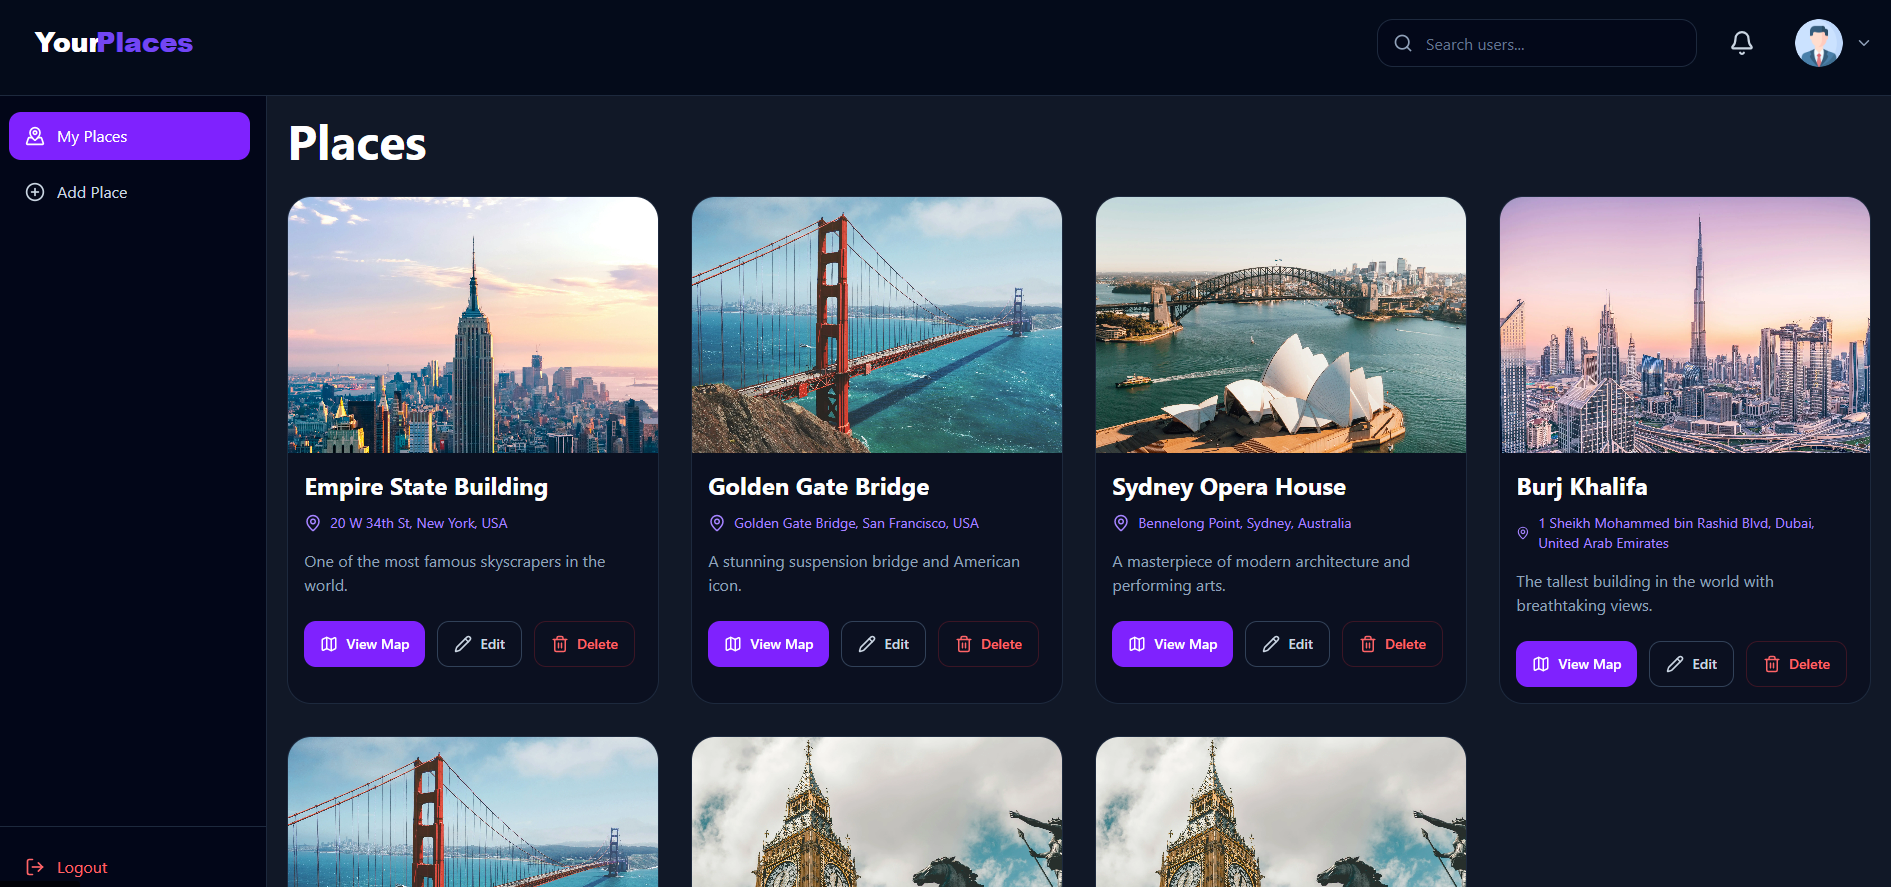
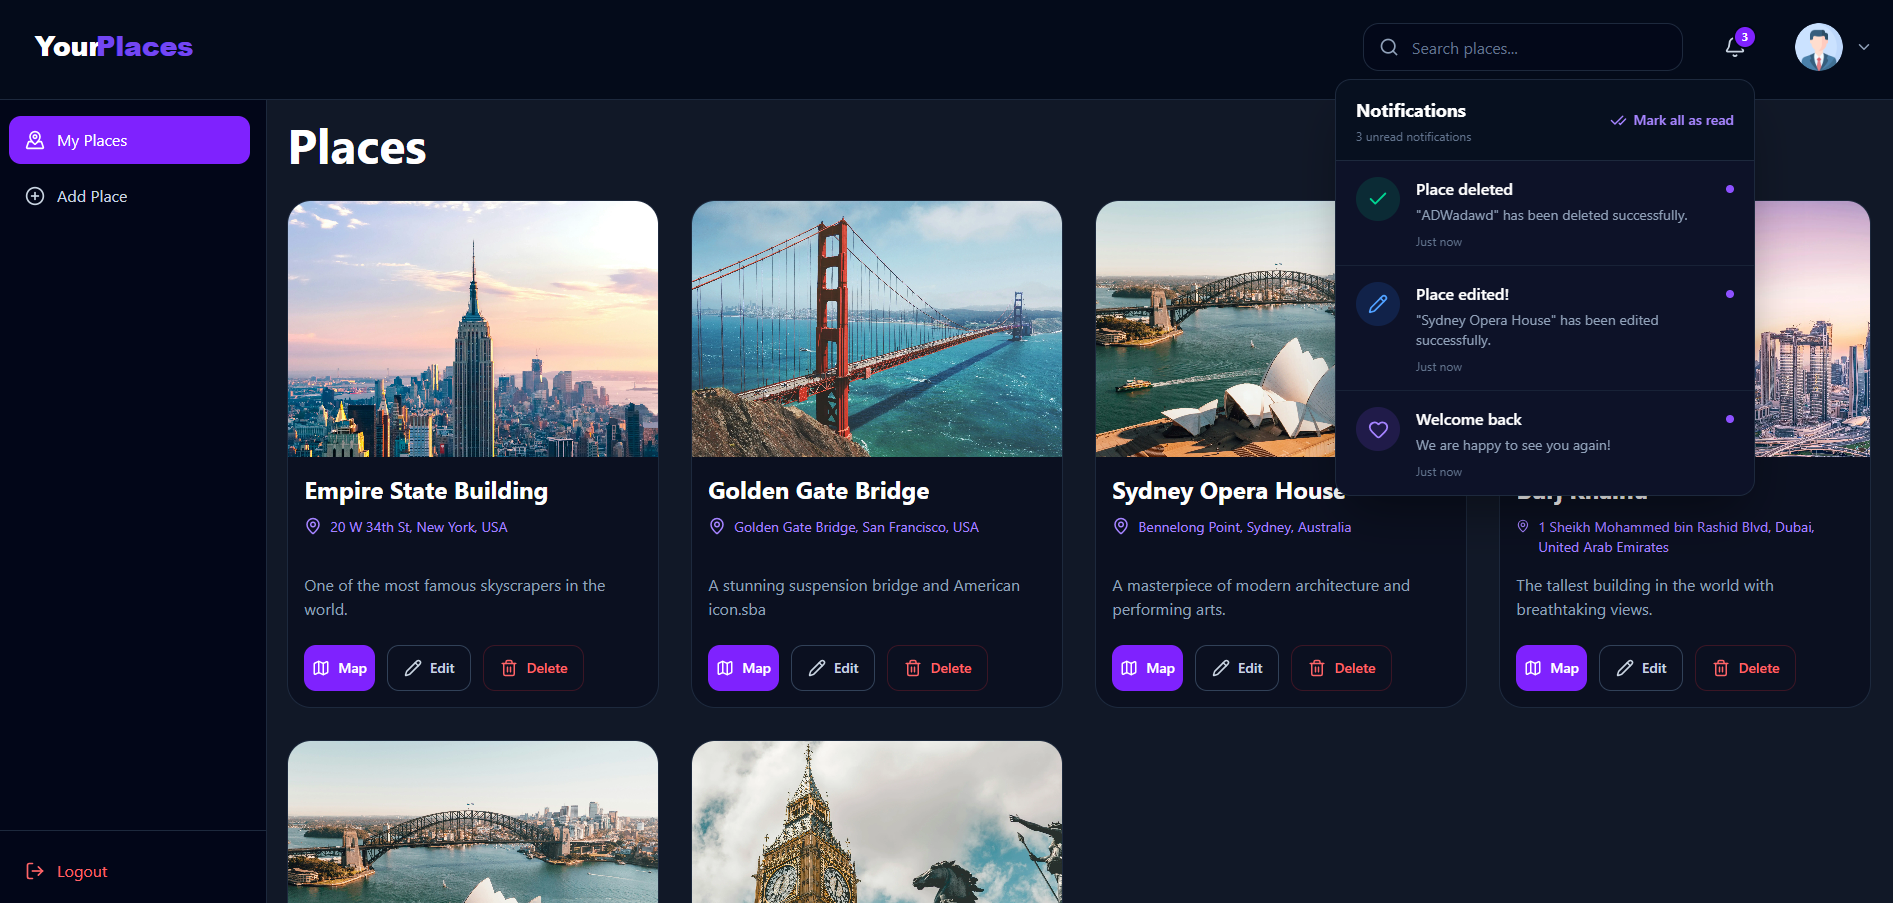
updating places app

diff --git a/app/data/tabs/siderbar-data.ts b/app/data/tabs/siderbar-data.ts
@@ -65,6 +65,25 @@ export const allProjects: Project[] = [
     ],
   },
   {
+    title: "Places App",
+    description: `A full-stack travel platform where users can discover, create, edit, and manage places they have visited, explore destinations shared by other users, upload images, and securely manage their own content. Built with React, TypeScript, Redux Toolkit, Node.js, Express, MongoDB, JWT authentication, Cloudinary, Tailwind CSS, and Material UI.`,
+    image: "/Places.png",
+    link: "https://places-app-nu.vercel.app",
+    technologies: [
+      "React",
+      "Redux Toolkit",
+      "TypeScript",
+      "Tailwind CSS",
+      "Node.js",
+      "Express.js",
+      "MongoDB",
+      "Mongoose",
+      "JWT",
+      "Material UI",
+      "Cloudinary",
+    ],
+  },
+  {
     title: "Clothing Store",
     description: `Building a scalable full-stack e-commerce application with Next.js, TypeScript, Prisma, and PostgreSQL, including authentication, payments (Stripe/PayPal), and admin dashboard features. (In progress...)`,
     image: "/ClothingStore.jpeg",
@@ -81,23 +100,6 @@ export const allProjects: Project[] = [
       "Zod",
       "ES Lint",
       "ShadCN UI",
-    ],
-  },
-  {
-    title: "Places App",
-    description: `Building a full-stack travel platform where users can create, manage, and share places they have visited, explore destinations from other users, and securely manage their own content using React, Redux, TypeScript, Node.js, and MongoDB. (In progress...)`,
-    image: "/Places.png",
-    link: "https://places-app-nu.vercel.app",
-    technologies: [
-      "React",
-      "Redux Toolkit",
-      "TypeScript",
-      "Tailwind CSS",
-      "Node.js",
-      "Express.js",
-      "MongoDB",
-      "Mongoose",
-      "JWT",
     ],
   },
   {